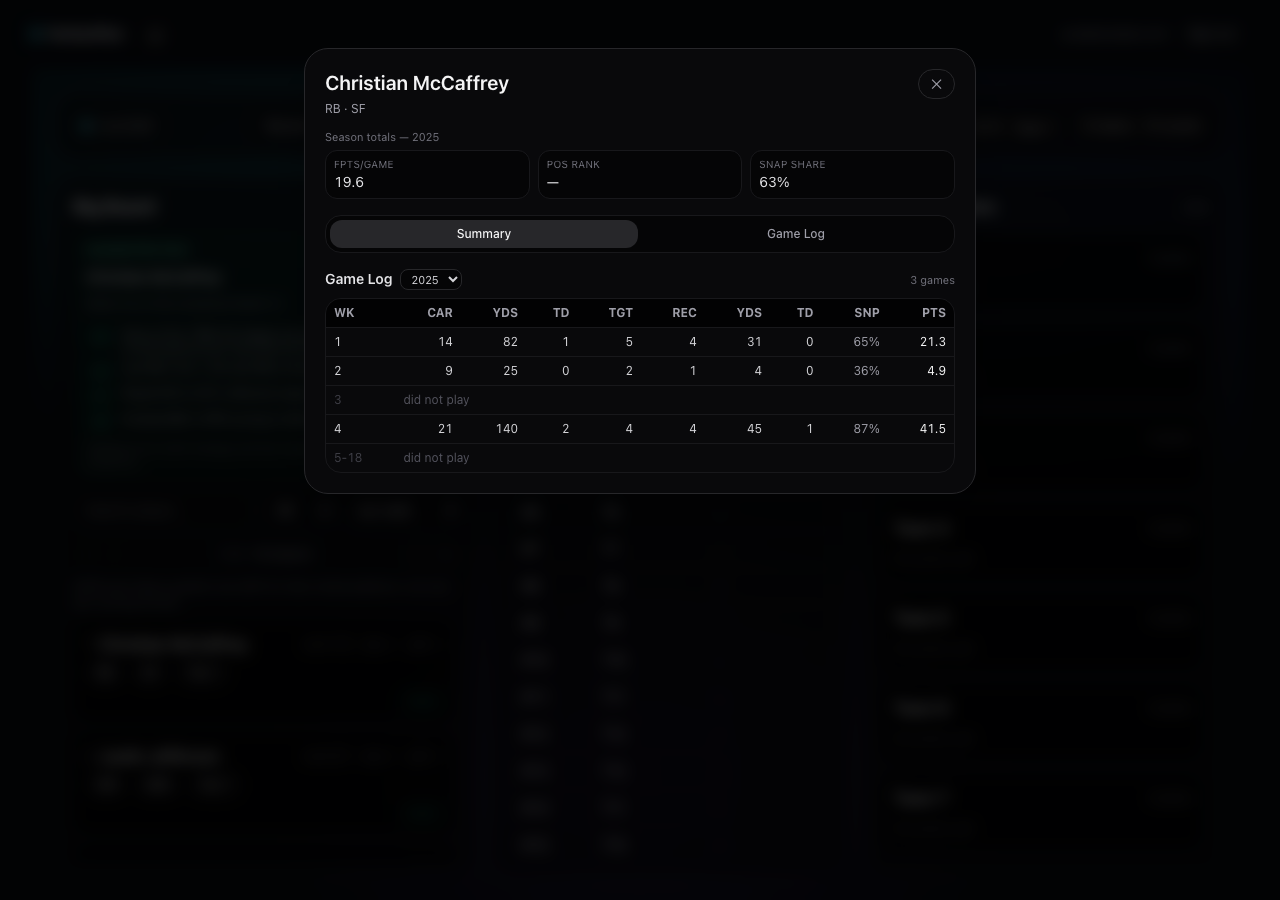
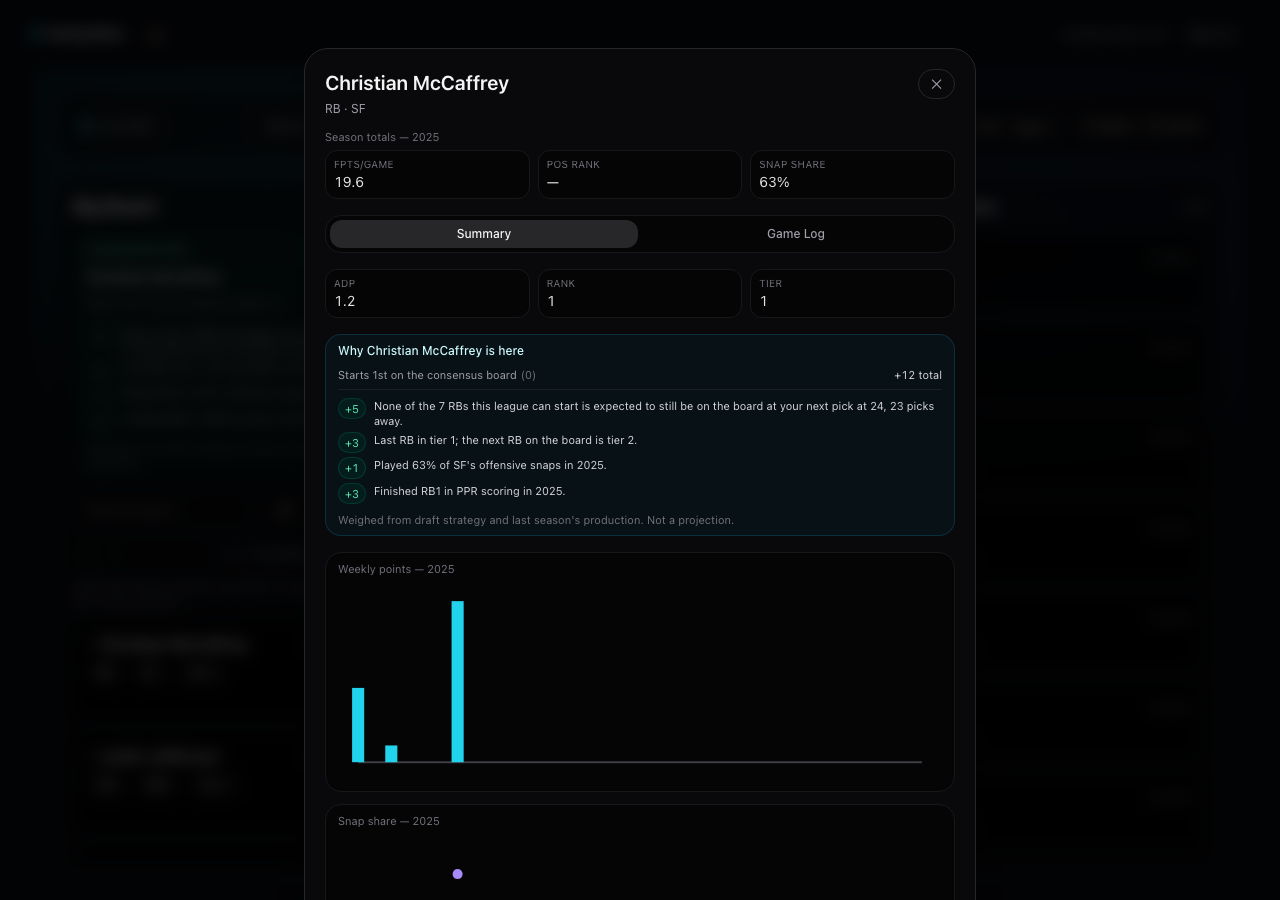
fix: a chart must not read absent data as zero
My own format-aware chart fix created this: the bars began reading the
league's own points field, the fixtures carried only pts_ppr, and statValue
returns 0 for a missing field -- so the reference screenshot confidently
announced "No points in 3 games" about a player who scored 67.7.

statValue returning 0 is right for a table cell, where a blank column reads
as a zero and misleads nobody. It is wrong for a chart, where a zero is a
drawn mark asserting "he scored nothing this week". The rule was already
written eight lines below it, in snapShare's comment: "played no snaps" and
"we do not know how many snaps" look identical as a zero, and only one of
them is a fact.

Adds statOrNull for chart reads, and completes every fixture row with the
three points fields a real sync stores (WEEK_FIELDS). The two tests that
broke were asserting the old absent-as-zero behaviour against incomplete
fixtures; both now pass on complete ones.

Also from the review's minor list: the default-season test derived its
expectation from the clock instead of hard-coding 2026, which would have
started failing on 1 January 2027 for a rule that still worked; and the
reference screenshot is now taken from the Summary tab, where the charts
live -- it had been showing the Game Log table, so the branch's headline
work appeared in no committed image.

diff --git a/frontend/tests/player.spec.js b/frontend/tests/player.spec.js
@@ -77,7 +77,7 @@ test.describe("the player page", () => {
   // not each player's peak, which drew 16% and 96% as the identical line.
   test("snap share is scaled against 100, not the player's own best week", async ({ page }) => {
     await mockPlayer(page, {
-      gameLogs: { 2025: [{ wk: 1, pts_ppr: 0, off_snp: 6, tm_off_snp: 60 }] },
+      gameLogs: { 2025: [{ wk: 1, pts_ppr: 0, pts_half_ppr: 0, pts_std: 0, off_snp: 6, tm_off_snp: 60 }] },
       gameLogThrough: { 2025: 18 },
     });
     await page.goto(`/player/${PLAYER.id}?format=ppr`);
@@ -106,7 +106,8 @@ test.describe("the player page", () => {
   test("a season of zeros says so, rather than looking empty", async ({ page }) => {
     const zeros = Array.from({ length: 15 }, (_, i) => ({
       wk: i + 1,
-      rec: 0, rec_tgt: 0, rec_yd: 0, rec_td: 0, pts_ppr: 0,
+      rec: 0, rec_tgt: 0, rec_yd: 0, rec_td: 0,
+      pts_ppr: 0, pts_half_ppr: 0, pts_std: 0,
       off_snp: [3, 5, 9, 2, 7, 4, 10, 1, 6, 8, 2, 5, 3, 9, 4][i],
       tm_off_snp: 62,
     }));
@@ -290,14 +291,22 @@ test.describe("the player page", () => {
   // proves the code checks for the CURRENT season by name rather than just
   // taking the top of the sorted list.
   test("opens on the current calendar season when it has games", async ({ page }) => {
+    // Derived, not hard-coded: a literal 2026 here would start failing on
+    // 1 January 2027 for a rule that is still working correctly. The
+    // fabricated `current + 1` is the load-bearing part and stays.
+    const current = new Date().getFullYear();
     await mockPlayer(page, {
-      gameLogs: { 2025: MOCK_GAME_LOG, 2026: MOCK_GAME_LOG, 2027: MOCK_GAME_LOG },
-      gameLogThrough: { 2025: 18, 2026: 3, 2027: 1 },
+      gameLogs: {
+        [current - 1]: MOCK_GAME_LOG,
+        [current]: MOCK_GAME_LOG,
+        [current + 1]: MOCK_GAME_LOG,
+      },
+      gameLogThrough: { [current - 1]: 18, [current]: 3, [current + 1]: 1 },
     });
     await page.goto(`/player/${PLAYER.id}`);
     await page.getByTestId("tab-gamelog").click();
 
-    await expect(page.getByTestId("season-select")).toHaveValue("2026");
+    await expect(page.getByTestId("season-select")).toHaveValue(String(current));
   });
 
   // The one exception: an empty current season is not a useful default, even

diff --git a/frontend/tests/fixtures.js b/frontend/tests/fixtures.js
@@ -228,11 +228,11 @@ export const API_BASE = "http://localhost:9999";
 // and a fixture with every week present could not tell the two apart.
 export const MOCK_GAME_LOG = [
   { wk: 1, rush_att: 14, rush_yd: 82, rush_td: 1, rec_tgt: 5, rec: 4, rec_yd: 31,
-    off_snp: 40, tm_off_snp: 62, pts_ppr: 21.3 },
+    off_snp: 40, tm_off_snp: 62, pts_ppr: 21.3, pts_half_ppr: 19.3, pts_std: 17.3 },
   { wk: 2, rush_att: 9, rush_yd: 25, rec_tgt: 2, rec: 1, rec_yd: 4,
-    off_snp: 22, tm_off_snp: 61, pts_ppr: 4.9 },
+    off_snp: 22, tm_off_snp: 61, pts_ppr: 4.9, pts_half_ppr: 4.4, pts_std: 3.9 },
   { wk: 4, rush_att: 21, rush_yd: 140, rush_td: 2, rec_tgt: 4, rec: 4, rec_yd: 45, rec_td: 1,
-    off_snp: 55, tm_off_snp: 63, pts_ppr: 41.5 },
+    off_snp: 55, tm_off_snp: 63, pts_ppr: 41.5, pts_half_ppr: 39.5, pts_std: 37.5 },
 ];
 
 // Cameron Latu's real shape: a tight end who suited up for fifteen games and
@@ -249,7 +249,12 @@ export const ALL_ZERO_GAME_LOG = ALL_ZERO_PLAYED_WEEKS.map((wk, i) => ({
   rec_tgt: 0, rec: 0, rec_yd: 0, rec_td: 0,
   off_snp: ALL_ZERO_SNAP_SHARES[i],
   tm_off_snp: 100,
+  // All three, as a real sync stores them (WEEK_FIELDS). A row carrying only
+  // pts_ppr says "standard points were not recorded", which is a different
+  // claim from "he scored nothing" -- and the charts now tell them apart.
   pts_ppr: 0,
+  pts_half_ppr: 0,
+  pts_std: 0,
 }));
 
 // The exact top-level shape backend/src/drafts.js's GET /drafts/{draftId}

diff --git a/frontend/src/components/draft/PlayerDetail.jsx b/frontend/src/components/draft/PlayerDetail.jsx
@@ -1,7 +1,7 @@
 import { useEffect, useState } from "react";
 import { apiGet } from "../../lib/api";
 import { ReasonList, SCORED_NOTHING, NOT_EVALUATED, ADVICE_BASIS } from "./ReasonList";
-import { columnsFor, statValue, snapShare, withByeGaps, gapLabel } from "./gameLog";
+import { columnsFor, statValue, statOrNull, snapShare, withByeGaps, gapLabel } from "./gameLog";
 import { computeKpis } from "./playerKpis";
 import { StartingPoint } from "./StartingPoint";
 import { WeeklyChart } from "./WeeklyChart";
@@ -247,7 +247,7 @@ export function PlayerDetail({
                 // bars were hard-coded to PPR, so a standard league read
                 // "FPTS/GAME 9.0" above weeks averaging 15 -- two scoring
                 // systems, unlabelled, an inch apart.
-                valueOf={(row) => statValue(row, POINTS_FIELD[format] ?? "pts_ppr")}
+                valueOf={(row) => statOrNull(row, POINTS_FIELD[format] ?? "pts_ppr")}
               />
             </div>
             <div className="rounded-2xl border border-zinc-900 bg-black/40 px-3 py-2">

diff --git a/frontend/src/components/draft/gameLog.js b/frontend/src/components/draft/gameLog.js
@@ -49,6 +49,20 @@ export function columnsFor(position) {
  * The "did not play" case never reaches here: those weeks are absent from the
  * log entirely and the table renders them as gaps.
  */
+/**
+ * The same read as `statValue`, but absent comes back as null.
+ *
+ * `statValue` returns 0 for a missing field, which is right for a table cell
+ * -- a blank column reads as a zero and nobody is misled. It is wrong for a
+ * chart, where a zero is a drawn mark claiming "he scored nothing this week"
+ * and absence should draw no mark at all. Same distinction `snapShare` below
+ * already makes, for the same reason.
+ */
+export function statOrNull(row, key) {
+  const v = row?.[key];
+  return typeof v === "number" && Number.isFinite(v) ? v : null;
+}
+
 export function statValue(row, key) {
   const v = row?.[key];
   return typeof v === "number" && Number.isFinite(v) ? v : 0;

diff --git a/frontend/tests/drilldown.spec.js b/frontend/tests/drilldown.spec.js
@@ -274,8 +274,12 @@ test.describe("player drill-down", () => {
     await page.setViewportSize({ width: 1280, height: 900 });
     await openDraft(page);
     await rowFor(page, MCCAFFREY).getByTestId("open-player").click();
-    await page.getByTestId("tab-gamelog").click();
-    await expect(page.getByTestId("player-modal-log")).toBeVisible();
+    // Summary, which is the tab the modal actually opens on, and the only one
+    // that shows the charts. The shot used to click through to Game Log, so
+    // the README advertised a table and the charts appeared in no committed
+    // screenshot at all.
+    await expect(page.getByTestId("player-kpis")).toBeVisible();
+    await expect(page.getByTestId("weekly-points-chart")).toBeVisible();
 
     await page.screenshot({ path: `${SCREENSHOTS}/player.png`, fullPage: false });
   });
